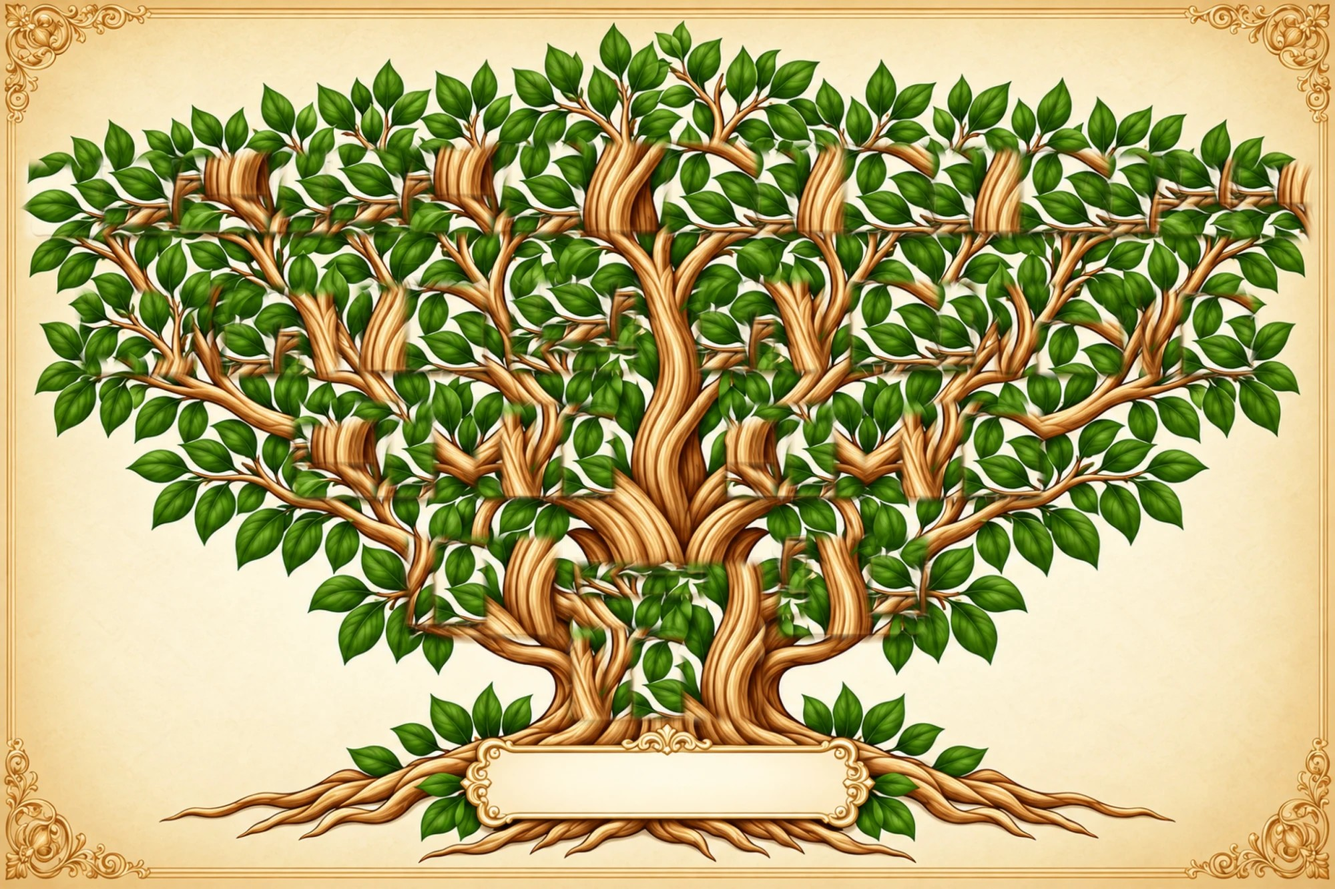
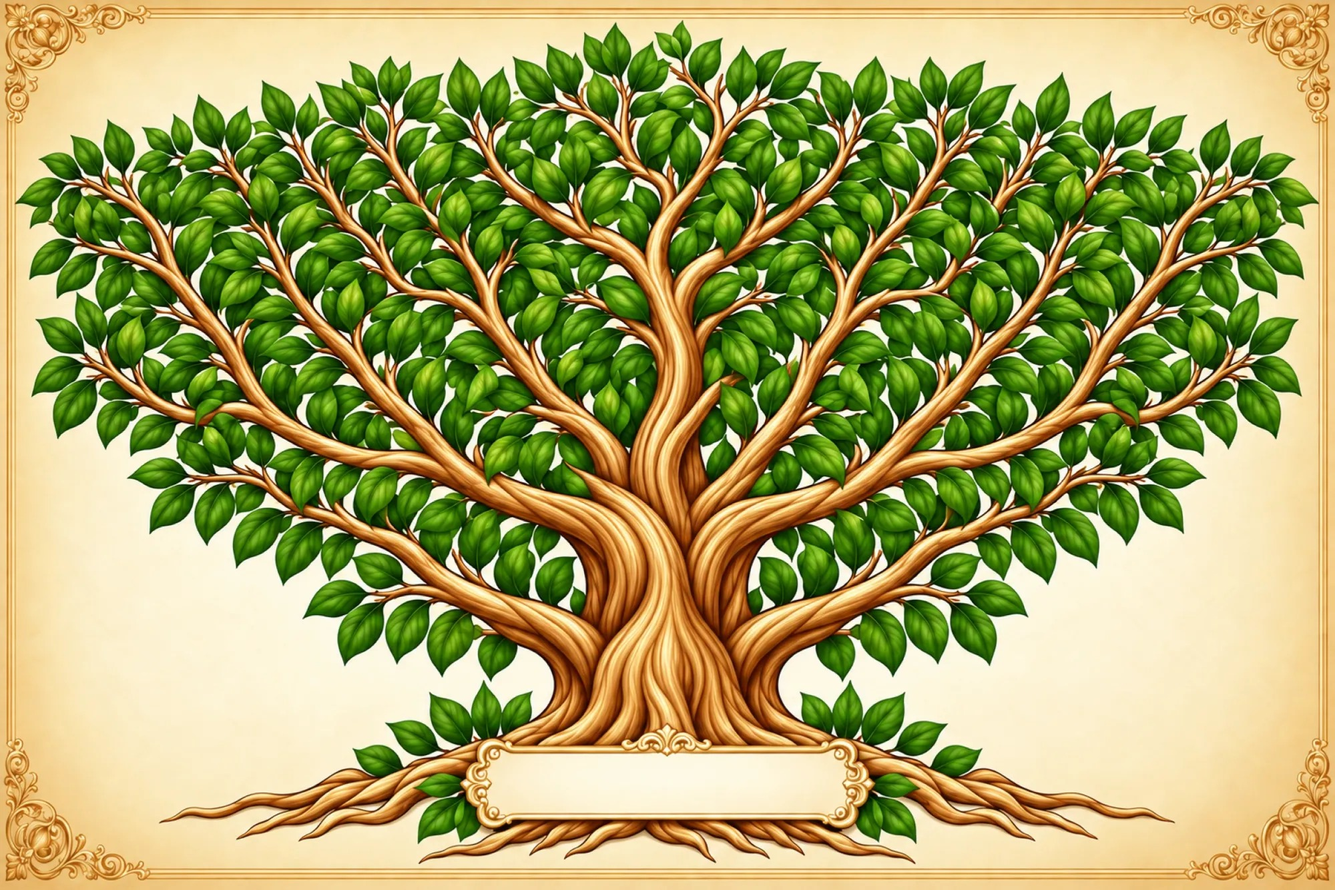
Lebensbaum: eigene Bilder ohne Schilder für die Familie
Die Familie steht jetzt auf eigens gemalten Bäumen ohne Schilder statt
auf den aus den grossen Tafeln gerechneten, und jeder Stil hat sein
freigestelltes Schild. Weil die Schilder verschieden geschnitten sind,
trägt jede Vorlage Seitenverhältnis und Schriftfläche ihres Schildes;
ein sehr flaches Schild wird beim Setzen etwas gestreckt.

diff --git a/lib/services/lebensbaum_bild.dart b/lib/services/lebensbaum_bild.dart
@@ -110,17 +110,12 @@ Lebensbaumbild bildAusBelegung(
   verschwiegen: belegung.verschwiegen,
 );
 
-/// Wie das Schildbild aufgebaut ist, als Anteile seiner Grösse: Oben die
-/// Zierkante, darunter der helle Grund, auf den geschrieben wird.
-const _schildSeitenverhaeltnis = 153 / 220;
-const _schriftLinks = 0.105;
-const _schriftOben = 0.34;
-const _schriftRechts = 0.895;
-const _schriftUnten = 0.86;
-
-/// So breit wird ein gesetztes Schild höchstens – so gross wie die
+/// So breit wird ein gesetztes Schild höchstens – etwas grösser als die
 /// gemalten der grossen Tafeln.
-const _hoechsteSchildbreite = 220.0;
+const _hoechsteSchildbreite = 260.0;
+
+/// Flacher als so viel zu eins wird ein gesetztes Schild nicht.
+const _flachstes = 0.45;
 
 /// Setzt den Zierbaum [plan] in die Krone der [vorlage].
 ///
@@ -155,12 +150,16 @@ Lebensbaumbild familienbild(
       plan.schilder.first.breite + const Zierbaummasse().partnerLuecke * 0.8;
 
   var breite = math.min(schildBreite * massstab, _hoechsteSchildbreite);
-  var hoehe = breite * _schildSeitenverhaeltnis;
+  // Ein sehr flaches Schild wird etwas gestreckt: Sonst fasst es nur
+  // Schrift, die keiner mehr lesen kann.
+  final verhaeltnis = math.max(vorlage.schildVerhaeltnis, _flachstes);
+  final innen = vorlage.schildSchrift;
+  var hoehe = breite * verhaeltnis;
   // Übereinander müssen die Generationen auch passen.
   final hoechstens = krone.height / (baender.length * 1.12);
   if (hoehe > hoechstens) {
     hoehe = hoechstens;
-    breite = hoehe / _schildSeitenverhaeltnis;
+    breite = hoehe / verhaeltnis;
   }
   double zeileY(int band) {
     final i = baender.indexOf(band);
@@ -187,10 +186,10 @@ Lebensbaumbild familienbild(
           return Lebensbaumplatz(
             rahmen: rahmen,
             schrift: Rect.fromLTRB(
-              rahmen.left + rahmen.width * _schriftLinks,
-              rahmen.top + rahmen.height * _schriftOben,
-              rahmen.left + rahmen.width * _schriftRechts,
-              rahmen.top + rahmen.height * _schriftUnten,
+              rahmen.left + rahmen.width * innen.left,
+              rahmen.top + rahmen.height * innen.top,
+              rahmen.left + rahmen.width * innen.right,
+              rahmen.top + rahmen.height * innen.bottom,
             ),
             personen: [s.personId],
             zuSetzen: true,

diff --git a/lib/services/lebensbaum_vorlage.dart b/lib/services/lebensbaum_vorlage.dart
@@ -87,6 +87,12 @@ class Lebensbaumvorlage {
   /// Wo frei gesetzte Schilder stehen dürfen: die Krone samt Stamm.
   final Rect? krone;
 
+  /// Höhe zu Breite des [schildBild]s.
+  final double schildVerhaeltnis;
+
+  /// Wo auf dem [schildBild] geschrieben wird, als Anteile seiner Grösse.
+  final Rect schildSchrift;
+
   const Lebensbaumvorlage({
     required this.stil,
     required this.bild,
@@ -100,6 +106,8 @@ class Lebensbaumvorlage {
     this.leeresBild,
     this.schildBild,
     this.krone,
+    this.schildVerhaeltnis = 0.7,
+    this.schildSchrift = const Rect.fromLTRB(0.1, 0.34, 0.9, 0.86),
   });
 
   /// Die Person an [stelle], oder `null`.
@@ -311,9 +319,13 @@ Lebensbaumvorlage _gross(
 ) => Lebensbaumvorlage(
   stil: stil,
   bild: bild,
+  // Das Bild ohne Schilder ist derselbe Baum, eigens ohne Schilder
+  // gemalt; das Schild dazu ist freigestellt und je Stil vermessen.
   leeresBild: 'assets/lebensbaum/${stil.name}_leer.jpg',
   schildBild: 'assets/lebensbaum/${stil.name}_schild.png',
-  krone: const Rect.fromLTRB(40, 230, 1960, 1060),
+  krone: const Rect.fromLTRB(60, 140, 1940, 1060),
+  schildVerhaeltnis: _schildmasse[stil]!.verhaeltnis,
+  schildSchrift: _schildmasse[stil]!.schrift,
   groesse: const Size(2000, 1333),
   wurzel: const Vorlagenfeld(
     Rect.fromLTRB(863, 882, 1137, 1048),
@@ -324,6 +336,27 @@ Lebensbaumvorlage _gross(
   schrift: schrift,
   nebenschrift: nebenschrift,
 );
+
+/// Die freigestellten Schilder: Höhe zu Breite und die helle Fläche
+/// darin, in Anteilen.
+const _schildmasse = {
+  Lebensbaumstil.landschaft: (
+    verhaeltnis: 196 / 592,
+    schrift: Rect.fromLTRB(0.14, 0.33, 0.86, 0.88),
+  ),
+  Lebensbaumstil.wappen: (
+    verhaeltnis: 299 / 596,
+    schrift: Rect.fromLTRB(0.13, 0.38, 0.89, 0.81),
+  ),
+  Lebensbaumstil.pergament: (
+    verhaeltnis: 283 / 590,
+    schrift: Rect.fromLTRB(0.10, 0.33, 0.90, 0.89),
+  ),
+  Lebensbaumstil.gold: (
+    verhaeltnis: 338 / 588,
+    schrift: Rect.fromLTRB(0.11, 0.30, 0.89, 0.84),
+  ),
+};
 
 final _pergamentGross = _gross(
   Lebensbaumstil.pergament,
